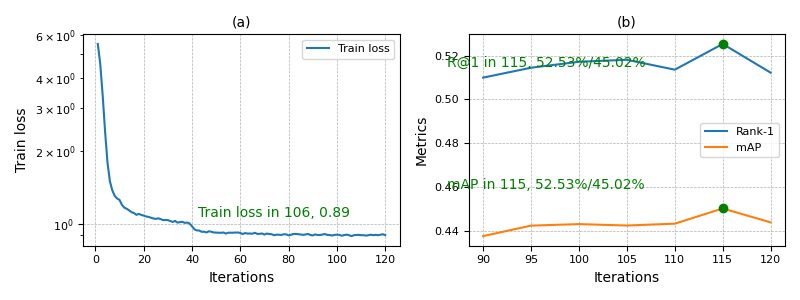
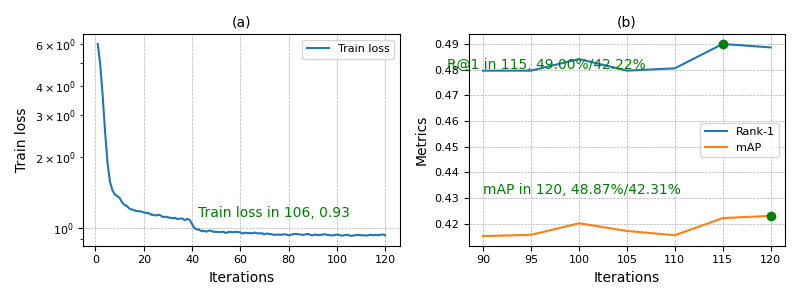
(修复了model.py中的计算错误，优化了特征整合方式)

diff --git a/ex_001_23/model.py b/ex_001_23/model.py
@@ -46,7 +46,7 @@ class Auxiliary_classifier_head(nn.Module):
         self.logger = logger
 
         # Pooling
-        self.pool_layer = nn.AdaptiveAvgPool2d(1)
+        self.pool_layer = network.layers.GeneralizedMeanPoolingP()
 
         # BatchNorm
         self.BN = nn.BatchNorm1d(feat_dim)
@@ -79,7 +79,7 @@ class Classifier_head(nn.Module):
         self.logger = logger
 
         # Pooling
-        self.pool_layer = nn.AdaptiveAvgPool2d(1)
+        self.pool_layer = network.layers.GeneralizedMeanPoolingP()
 
         # BatchNorm
         self.BN = nn.BatchNorm1d(feat_dim)
